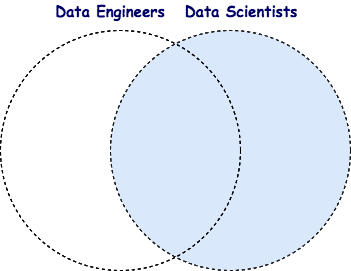
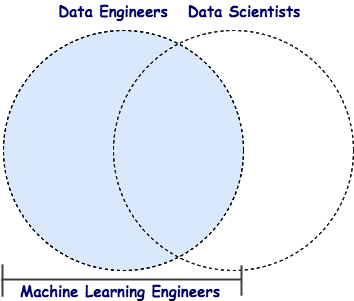
manifesto out of draft

diff --git a/manifesto.md b/manifesto.md
@@ -4,7 +4,7 @@ title: "manifesto."
 permalink: /manifesto/
 ---
 
-**ProductionML is an initiative to level up data scientists, enabling them to understand all the technologies, components and integration points which they need to be aware of for running machine learning systems in production, at scale with the help of data engineers for automation of the various pipeline processes.**
+**ProductionML is an initiative to level up data engineers, enabling them to understand all the fundamentals, technologies and algorithms which they need to be aware of for running machine learning systems in production, at scale for trivial problems with the help of data scientists for development and validation of novel, quant-heavy solutions.**
 
 ![Data Actors Venn Diagram]({{ "/assets/venn-diagram.png" | absolute_url }})
 
@@ -18,22 +18,26 @@ The data engineers want to automate these engineering handoffs, deployments and 
 
 ![Machine Learning Spectrum]({{ "/assets/ml-spectrum.png" | absolute_url }})
 
-Our objective is to work through production technologies such as (but not limited to) Apache Spark[^4], ModelDB[^5], MLeap[^6], Apache MXNet[^7] and untangle cutting edge research being done in the area by pioneers such as Rise Lab[^8], Google BRAIN Team[^9] and Stanford DAWN[^10] to reduce the time it takes for the data scientists to take their models to production, at scale and eventually being able to build pipelines where models are trained, deployed, tuned, selected in an online manner following best practices[^11] and being weary of _"The High-Interest Credit Card of Technical Debt"_[^12].
+Today, 'bias' is a bug (in data-driven products) and models need to be secure, transparent and localized. We need machine learning to monitor models at scale [^4].
 
-We aim to achieve this through bridge workshops (to help data scientists become abreast of good software engineering practices, cloud computing[^13] and tools like docker) and meetups (to discuss research paper, follow courses and host talks on various related topics).
+Our objective is to work through production technologies such as (but not limited to) Apache Spark[^5], ModelDB[^6], MLeap[^7], Apache MXNet[^8] and untangle cutting edge research being done in the area by pioneers such as Rise Lab[^9], Google BRAIN Team[^10] and Stanford DAWN[^11] to reduce the time it takes for teams to take their models to production, at scale and eventually being able to build pipelines where models are trained, deployed, tuned, selected in an online manner following best practices[^12] and being weary of _"The High-Interest Credit Card of Technical Debt"_[^14].
+
+We aim to achieve this through bridge workshops, meetups and content aggregation thereby helping solid data engineers in _learn enough machine learning to be dangerous_ and turn into _unicorns_ aka __Machine Learning Engineers__[^14].
 
 <hr>
 <div class="footnotes">Footnotes:</div>
 [^1]: [fast.ai](http://www.fast.ai)
 [^2]: [Deep Learning Specialization](https://www.coursera.org/specializations/deep-learning)
 [^3]: [a16z Podcast: AI, from 'Toy' Problems to Practical Application](https://soundcloud.com/a16z/optimization-ai-in-practice)
-[^4]: [Apache Spark Project](https://spark.apache.org/)
-[^5]: [MIT CSAIL ModelDB](https://mitdbg.github.io/modeldb/)
-[^6]: [MLeap](http://mleap-docs.combust.ml/)
-[^7]: [Apache MXNet](https://mxnet.apache.org/)
-[^8]: [Rise Lab](https://rise.cs.berkeley.edu/)
-[^9]: [Google BRAIN Research Team](https://research.google.com/teams/brain/)
-[^10]: [Stanford DAWN](http://dawn.cs.stanford.edu/)
-[^11]: [Rules for Machine Learning: Best Practices for ML Engineering](http://martin.zinkevich.org/rules_of_ml/rules_of_ml.pdf)
-[^12]: [Machine Learning: The High-Interest Credit Card of Technical Debt](https://research.google.com/pubs/pub43146.html)
-[^13]: [Stanford-CS349D: Cloud Computing Technology](https://web.stanford.edu/class/cs349d/)
+[^4]: [We need to build machine learning tools to augment machine learning engineers](https://www.oreilly.com/ideas/we-need-to-build-machine-learning-tools-to-augment-machine-learning-engineers)
+[^5]: [Apache Spark Project](https://spark.apache.org/)
+[^6]: [MIT CSAIL ModelDB](https://mitdbg.github.io/modeldb/)
+[^7]: [MLeap](http://mleap-docs.combust.ml/)
+[^8]: [Apache MXNet](https://mxnet.apache.org/)
+[^9]: [Rise Lab](https://rise.cs.berkeley.edu/)
+[^10]: [Google BRAIN Research Team](https://research.google.com/teams/brain/)
+[^11]: [Stanford DAWN](http://dawn.cs.stanford.edu/)
+[^12]: [Rules for Machine Learning: Best Practices for ML Engineering](http://martin.zinkevich.org/rules_of_ml/rules_of_ml.pdf)
+[^13]: [Machine Learning: The High-Interest Credit Card of Technical Debt](https://research.google.com/pubs/pub43146.html)
+[^14]: [Stanford-CS349D: Cloud Computing Technology](https://web.stanford.edu/class/cs349d/)
+[^15]: [What are machine learning engineers?](https://www.oreilly.com/ideas/what-are-machine-learning-engineers)
